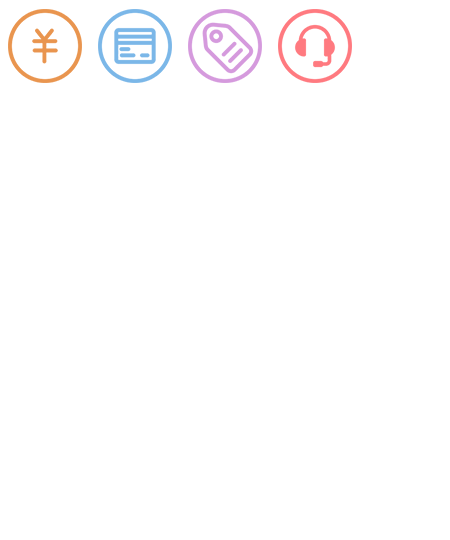
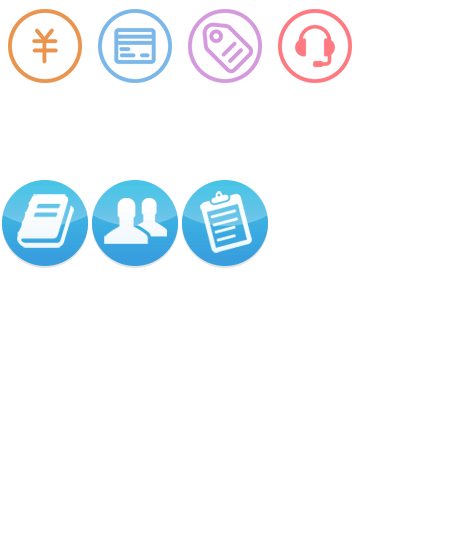
更改大廳合作加盟icon

Changed region(s): [[0.0, 0.3259, 0.6222, 0.5037]]

diff --git a/static/frist/css/page.css b/static/frist/css/page.css
@@ -812,7 +812,7 @@ img.bet_ok { position: absolute; width: 100%; top: -2rem; left: 0; z-index: 1; }
 /*.cooper_area .cooper > ul > li div.icon { width: 1.8rem; height: 1.8rem; background-image: url("/static/frist/images/border_bg02.png"); color: #fff; background-position-x: 50%; background-size: 150% 100%; -webkit-box-shadow: inset 0px 2px 1px 0px rgba(0, 0, 0, 0.4); box-shadow: inset 0px 2px 1px 0px rgba(0, 0, 0, 0.4); }*/
 .cooper_area .cooper > ul > li a { font-size: 0.34rem;  display: inline-block; color: #5f5f5f;}
 .cooper_area .cooper > ul > li a span{ display: block; margin: 0.1rem auto;}
-.cooper_area .cooper > ul > li a .icon_account{background-color: #1db5f7; border-radius: 1rem;}
+.cooper_area .cooper > ul > li a .icon_account{/*background-color: #1db5f7;*/ border-radius: 1rem;}
 .cooper_area .cooper > ul > li a span:last-child{line-height: 0.5rem; overflow: visible;}
 /*.cooper_area .cooper > ul > li a::after { content: ''; position: absolute; display: block; top: 0; left: 0; left: .3rem; bottom: -.4rem; top: inherit; }*/
 /*.cooper_area .cooper > ul > li a.icon_intro { background-position-y: top; }*/
